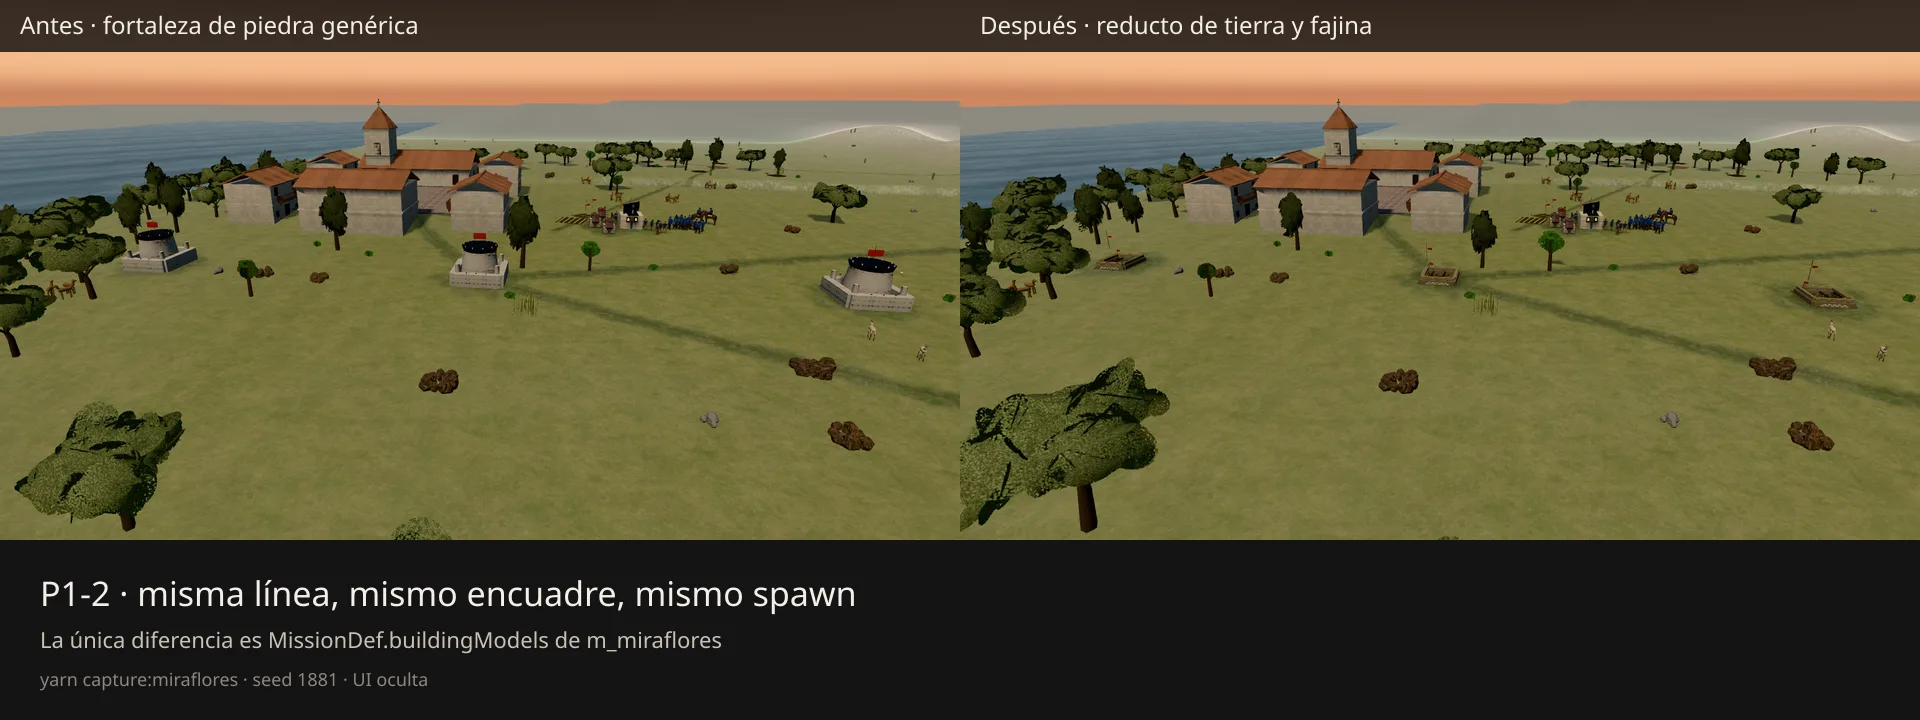
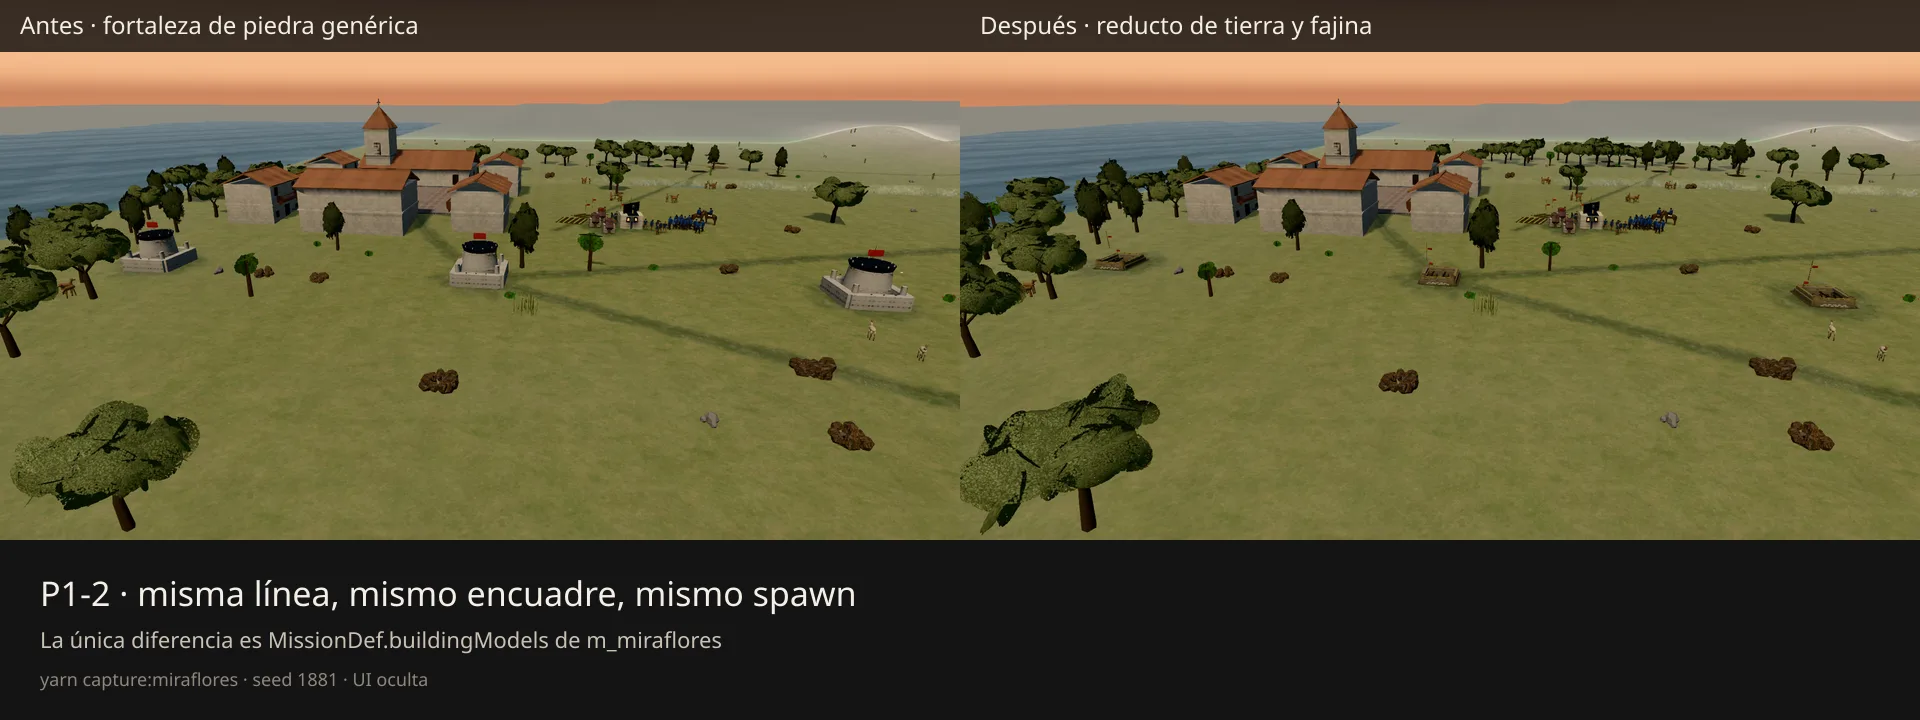
fix(campaign): tighten the redoubt look and its model tests

diff --git a/src/model/ProceduralModel.ts b/src/model/ProceduralModel.ts
@@ -277,6 +277,7 @@ class Builder {
     mesh.position.set(o.x ?? 0, o.y ?? 0, o.z ?? 0);
     if (o.ry) mesh.rotation.y = o.ry;
     if (o.rx) mesh.rotation.x = o.rx;
+    if (o.rz) mesh.rotation.z = o.rz;
     mesh.castShadow = true;
     mesh.receiveShadow = true;
     mesh.name = 'part';
@@ -2498,10 +2499,10 @@ function buildRedoubt1881(b: Builder): void {
   const outer = edge + bank / 2;
   const earth = mixHex('#7d7259', b.pal.wood, 0.25);
   const earthTop = mixHex(earth, '#a2967a', 0.45);
-  const ditch = mixHex(earth, '#4a4436', 0.55);
+  const ditch = mixHex(earth, '#2f2b22', 0.62);
   const bag = mixHex('#c2b592', b.pal.wood, 0.2);
   const gabion = mixHex('#9a8458', b.pal.wood, 0.25);
-  const straw = mixHex('#b09a5c', b.pal.wood, 0.2);
+  const straw = mixHex('#9c854c', b.pal.wood, 0.15);
   const timber = mixHex(b.pal.darkWood, '#6f5230', 0.6);
   const deck = mixHex(timber, '#a98a58', 0.4);
   const wheel = mixHex('#3f2f1e', b.pal.darkWood, 0.2);
@@ -2516,7 +2517,7 @@ function buildRedoubt1881(b: Builder): void {
     [d, 0, 0.24, w + 0.5],
     [-d, 0, 0.24, w + 0.5],
   ] as const) {
-    b.box(bw, 0.05, bd, ditch, { x, y: 0.025, z });
+    b.box(bw, 0.08, bd, ditch, { x, y: 0.04, z });
   }
 
   // Stepped earth parapet: a wide base and a narrower cap, open in the middle.
@@ -2535,13 +2536,14 @@ function buildRedoubt1881(b: Builder): void {
     });
   }
 
-  // Fascine crest: a straw bundle laid along the outer edge of the parapet (the audit's «fajina»).
-  const crestY = baseH + capH + 0.04;
-  const crest = w - 0.35;
-  b.box(crest, 0.1, 0.16, straw, { y: crestY, z: outer - 0.12 });
-  b.box(crest, 0.1, 0.16, straw, { y: crestY, z: -outer + 0.12 });
-  b.box(0.16, 0.1, crest, straw, { x: outer - 0.12, y: crestY });
-  b.box(0.16, 0.1, crest, straw, { x: -outer + 0.12, y: crestY });
+  // Fascine crest: short brush bundles laid end to end along the outer edge (the audit's «fajina»).
+  const crestY = baseH + capH + 0.05;
+  for (const at of [-1.2, -0.4, 0.4, 1.2]) {
+    b.box(0.68, 0.13, 0.15, straw, { x: at, y: crestY, z: outer - 0.12 });
+    b.box(0.68, 0.13, 0.15, straw, { x: at, y: crestY, z: -outer + 0.12 });
+    b.box(0.15, 0.13, 0.68, straw, { x: outer - 0.12, y: crestY, z: at });
+    b.box(0.15, 0.13, 0.68, straw, { x: -outer + 0.12, y: crestY, z: at });
+  }
 
   // Sandbag revetment on the front face (the Chilean assault came from the south, +Z).
   for (let row = 0; row < 2; row++) {
@@ -2555,18 +2557,20 @@ function buildRedoubt1881(b: Builder): void {
     }
   }
 
-  // Gabions at the parapet corners: wicker baskets filled with earth, a standard fieldwork revetment.
-  for (const x of [-1.3, 1.3]) {
-    b.cyl(0.3, 0.32, 0.86, 12, gabion, { x, y: 0.43, z: 1.42 });
-    b.cyl(0.33, 0.33, 0.05, 12, timber, { x, y: 0.09, z: 1.42 });
-    b.cyl(0.33, 0.33, 0.05, 12, timber, { x, y: 0.78, z: 1.42 });
-    b.cyl(0.22, 0.22, 0.04, 12, fill, { x, y: 0.86, z: 1.42 });
+  // Gabions at the front corners: wicker baskets filled with earth, standing proud of the parapet.
+  for (const x of [-1.5, 1.5]) {
+    b.cyl(0.3, 0.33, 1.05, 12, gabion, { x, y: 0.525, z: 1.58 });
+    b.cyl(0.34, 0.34, 0.05, 12, timber, { x, y: 0.12, z: 1.58 });
+    b.cyl(0.34, 0.34, 0.05, 12, timber, { x, y: 0.54, z: 1.58 });
+    b.cyl(0.34, 0.34, 0.05, 12, timber, { x, y: 0.95, z: 1.58 });
+    b.cyl(0.24, 0.24, 0.04, 12, fill, { x, y: 1.06, z: 1.58 });
   }
 
   // Gun platform: a low earth platform with a timber deck inside the parapet.
   b.box(2.2, 0.12, 1.4, earthTop, { y: 0.06, z: 0.15 });
   b.box(2.0, 0.04, 1.1, deck, { y: 0.14, z: 0.15, tex: 'wood' });
 
+  // Two static field-gun emplacements (not the mobile cannon unit), aimed over the front parapet.
   const fieldGun = (x: number): void => {
     b.box(0.5, 0.16, 0.3, timber, { x, y: 0.36, z: 0.05, tex: 'wood' });
     for (const side of [-1, 1]) {

diff --git a/tests/mission-building-models.test.ts b/tests/mission-building-models.test.ts
@@ -2,7 +2,8 @@ import { describe, expect, it } from 'vitest';
 import { MISSIONS } from '../src/campaign/defs/campaign';
 import { mMiraflores } from '../src/campaign/defs/missions/m_miraflores';
 import { BuildingKind, Era } from '../src/core/types';
-import { getBuildingModel } from '../src/model/defs/buildings';
+import { getBuildingGhostModel, getBuildingModel } from '../src/model/defs/buildings';
+import { headlessMission } from './headless';
 
 describe('mission-scoped building models', () => {
   it('draws the Miraflores fortress as an earthwork redoubt', () => {
@@ -20,9 +21,33 @@ describe('mission-scoped building models', () => {
   });
 
   it('scopes the override to the mission and the building kind', () => {
-    expect(MISSIONS.filter((mission) => mission.buildingModels).map((mission) => mission.id)).toEqual(['m_miraflores']);
+    const tarapaca = MISSIONS.find((mission) => mission.id === 'm_tarapaca');
+    expect(tarapaca).toBeDefined();
+    expect(getBuildingModel(BuildingKind.FORTRESS, Era.REPUBLIC, tarapaca?.buildingModels)).toEqual(
+      getBuildingModel(BuildingKind.FORTRESS, Era.REPUBLIC),
+    );
     expect(getBuildingModel(BuildingKind.BARRACKS, Era.REPUBLIC, mMiraflores.buildingModels)).toEqual(
       getBuildingModel(BuildingKind.BARRACKS, Era.REPUBLIC),
     );
+  });
+
+  it('shows the override in the placement ghost and the era model elsewhere', () => {
+    expect(getBuildingGhostModel(BuildingKind.FORTRESS, mMiraflores.buildingModels)).toEqual({
+      type: 'redoubt_1881',
+      scale: 1.06,
+    });
+    expect(getBuildingGhostModel(BuildingKind.FORTRESS)).toEqual({ type: 'fortress_imperial', scale: 1 });
+  });
+
+  it('wires the override into the match build context', () => {
+    const game = headlessMission('m_miraflores');
+    try {
+      expect(game.makeBuildContext(0).buildingModels?.[BuildingKind.FORTRESS]).toEqual({
+        type: 'redoubt_1881',
+        scale: 1.06,
+      });
+    } finally {
+      game.destroy();
+    }
   });
 });

diff --git a/src/core/InputController.ts b/src/core/InputController.ts
@@ -5,7 +5,7 @@ import { Unit } from '../entities/Unit';
 import { Building } from '../entities/Building';
 import { ResourceNode } from '../entities/ResourceNode';
 import { bus } from './EventBus';
-import { BUILDING_DEFS, getBuildingStats } from '../model/defs/buildings';
+import { getBuildingGhostModel, getBuildingStats } from '../model/defs/buildings';
 import { RESOURCE_INFO } from './Config';
 import { isConverter, unitDisplayDescription, unitDisplayIcon } from '../model/defs/units';
 import { getHeritageBuilding, type HeritageBuildingDef } from '../model/defs/heritage';
@@ -1064,10 +1064,7 @@ export class InputController {
 }
 
 function buildModelForGhost(kind: BuildingKind, ctx: BuildContext): THREE.Group {
-  // Keep the long-standing first-era silhouette for ordinary ghosts; only a mission override swaps it.
-  const override = ctx.buildingModels?.[kind];
-  const modelType = Object.values(BUILDING_DEFS[kind].eraModel)[0];
-  const g = buildModel(override ?? { type: modelType?.type ?? 'center_steam' }, ctx);
+  const g = buildModel(getBuildingGhostModel(kind, ctx.buildingModels), ctx);
   g.traverse((o) => {
     const mesh = o as THREE.Mesh;
     if (!mesh.isMesh) return;

diff --git a/src/model/defs/buildings.ts b/src/model/defs/buildings.ts
@@ -584,6 +584,17 @@ export function getBuildingStats(kind: BuildingKind, era: Era): BuildingStats {
   return clone;
 }
 
+/** Ghost silhouette: the first era model, unless the mission overrides the kind (e.g. the redoubt). */
+export function getBuildingGhostModel(
+  kind: BuildingKind,
+  overrides?: Partial<Record<BuildingKind, ModelSpec>>,
+): ModelSpec {
+  const override = overrides?.[kind];
+  if (override) return override;
+  const first = Object.values(BUILDING_DEFS[kind].eraModel)[0];
+  return first ?? { type: 'center_steam' };
+}
+
 /** Final model of a building; a mission may override a kind (e.g. Miraflores' earthwork redoubt). */
 export function getBuildingModel(
   kind: BuildingKind,
